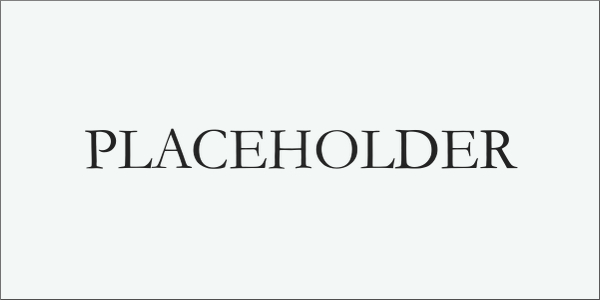
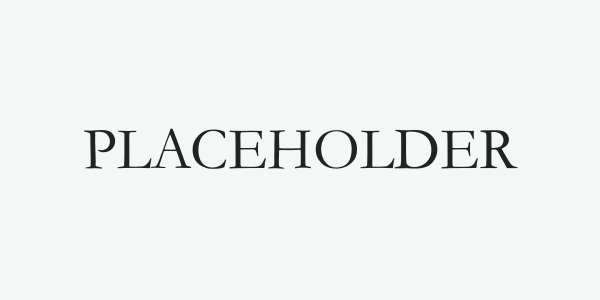
color changes

diff --git a/fm_career_forum.html b/fm_career_forum.html
@@ -77,12 +77,12 @@ Questions? Email me: edelstone@txstate.com or michael.edelstone@gmail.com
 	table[class=icontext] {width:186px !important; text-align:center !important;}
 	img[class="colimg2"] {width:260px !important; height:150px !important;}
 	table[class="emhide"] {display:none !important;}
-	table[class="backgroundTable footerTable"] {background-color:#501214 !important;}
+	table[class="backgroundTable footerTable"] {background-color:#F3F7F6 !important;}
 	table[class="backgroundTable contentTable"] {background-color:#363534 !important;}
 	table[class="backgroundTable logoTable"] {background-color:#FFFFFF !important;}
-	table[class="backgroundTable dateTable"] {background-color:#501214 !important;}
-	table[id="heroInnerTable"] {background-color:#501214 !important;}
-	table[class="backgroundTable heroTable"] {background-color:#501214 !important;}
+	table[class="backgroundTable dateTable"] {background-color:#F3F7F6 !important;}
+	table[id="heroInnerTable"] {background-color:#F3F7F6 !important;}
+	table[class="backgroundTable heroTable"] {background-color:#F3F7F6 !important;}
 	img[class="hero"] {width:320px !important; height: 160px !important;}
 	div[class="owa_hero_fix"] {height:160px !important;}
 	img[class="content_image_vert"] {width:160px !important; height:240px !important;}
@@ -141,7 +141,7 @@ Questions? Email me: edelstone@txstate.com or michael.edelstone@gmail.com
 		   <tbody>
 			  <tr>
 				 <td width="100%">
-					<table bgcolor="#501214" width="600" align="center" cellspacing="0" cellpadding="0" border="0" class="devicewidth" id="heroInnerTable">
+					<table bgcolor="#F3F7F6" width="600" align="center" cellspacing="0" cellpadding="0" border="0" class="devicewidth" id="heroInnerTable">
 					   <tbody>
 						  <tr>
 							 <td align="center">
